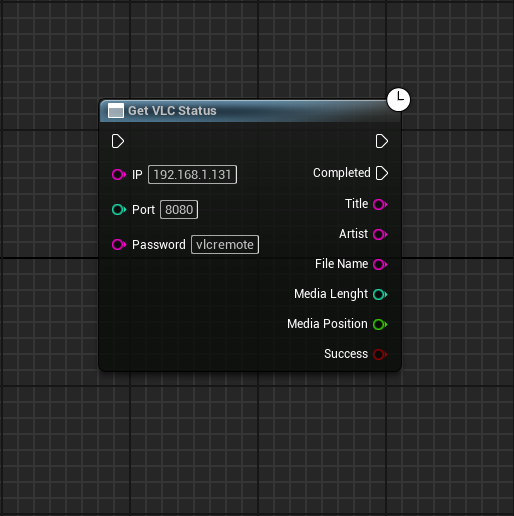
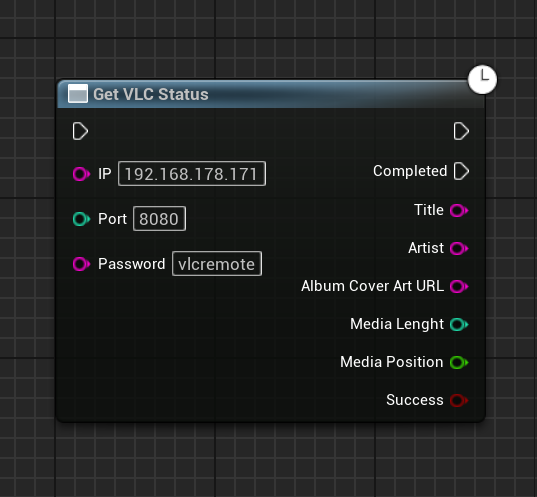
Having URL over network for Artwork Cover VLC

diff --git a/Source/Sumatras_Studios_Tools/Private/VLCStatus_Sumatras.cpp b/Source/Sumatras_Studios_Tools/Private/VLCStatus_Sumatras.cpp
@@ -19,17 +19,21 @@ void UVLCStatus_Sumatras::Activate()
 	HttpRequest->SetVerb("GET");
 	HttpRequest->SetHeader("Content-Type", "application/xml");
 	HttpRequest->SetURL(URL);
+	
 
 	// Setup Async response
 	HttpRequest->OnProcessRequestComplete().BindLambda([this](FHttpRequestPtr Request, FHttpResponsePtr Response, bool bSuccess)
 		{
 			FString ResponseString = "";
+			FString ArtworkLink = "";
+
 			if (bSuccess)
 			{
 				ResponseString = Response->GetContentAsString();
+				ArtworkLink = VLCArtworkURL;
 			}
 
-			this->HandleRequestCompleted(ResponseString, bSuccess);
+			this->HandleRequestCompleted(ResponseString, ArtworkLink, bSuccess);
 
 		});
 
@@ -40,7 +44,7 @@ void UVLCStatus_Sumatras::Activate()
 
 
 
-void UVLCStatus_Sumatras::HandleRequestCompleted(FString ResponseString, bool bSuccess)
+void UVLCStatus_Sumatras::HandleRequestCompleted(FString ResponseString, FString ArtworkLink, bool bSuccess)
 {
 
 	int lenght;
@@ -54,6 +58,8 @@ void UVLCStatus_Sumatras::HandleRequestCompleted(FString ResponseString, bool bS
 
 
 	{
+
+
 
 		mediaposition = 0;
 		lenght = 0;
@@ -141,7 +147,7 @@ void UVLCStatus_Sumatras::HandleRequestCompleted(FString ResponseString, bool bS
 			
 
 
-			Completed.Broadcast(title, artist, filename, MediaLenght, MediaPosition, bSuccess);
+			Completed.Broadcast(title, artist, ArtworkLink, MediaLenght, MediaPosition, bSuccess);
 
 		}
 
@@ -159,6 +165,7 @@ UVLCStatus_Sumatras* UVLCStatus_Sumatras::VLCStatus_Sumatras(UObject* WorldConte
 	// Create Action Instance for Blueprint System
 	UVLCStatus_Sumatras* Action = NewObject<UVLCStatus_Sumatras>();
 	Action->URL = "http://:" + Password + "@" + IP + ":" + FString::FromInt(Port) + "/requests/status.xml";
+	Action->VLCArtworkURL = "http://:" + Password + "@" + IP + ":" + FString::FromInt(Port) + "/art";
 	Action->RegisterWithGameInstance(WorldContextObject);
 
 	return Action;

diff --git a/Source/Sumatras_Studios_Tools/Public/VLCStatus_Sumatras.h b/Source/Sumatras_Studios_Tools/Public/VLCStatus_Sumatras.h
@@ -9,7 +9,7 @@
 /**
  * 
  */
-DECLARE_DYNAMIC_MULTICAST_DELEGATE_SixParams(FOnHttpRequestVLCStatusCompleted, const FString&, title, const FString&, artist, const FString&, FileName, const int&, MediaLenght, const float&, MediaPosition, bool, bSuccess);
+DECLARE_DYNAMIC_MULTICAST_DELEGATE_SixParams(FOnHttpRequestVLCStatusCompleted, const FString&, title, const FString&, artist, const FString&, AlbumCoverArtURL, const int&, MediaLenght, const float&, MediaPosition, bool, bSuccess);
 
 
 UCLASS()
@@ -19,7 +19,7 @@ class SUMATRAS_STUDIOS_TOOLS_API UVLCStatus_Sumatras : public UBlueprintAsyncAct
 
 
 protected:
-	void HandleRequestCompleted(FString ResponseString, bool bSuccess);
+	void HandleRequestCompleted(FString ResponseString, FString ArtworkLink, bool bSuccess);
 
 
 public:
@@ -34,6 +34,7 @@ public:
 
 	/* URL to send GET request to */
 	FString URL;
+	FString VLCArtworkURL;
 
 };
 
